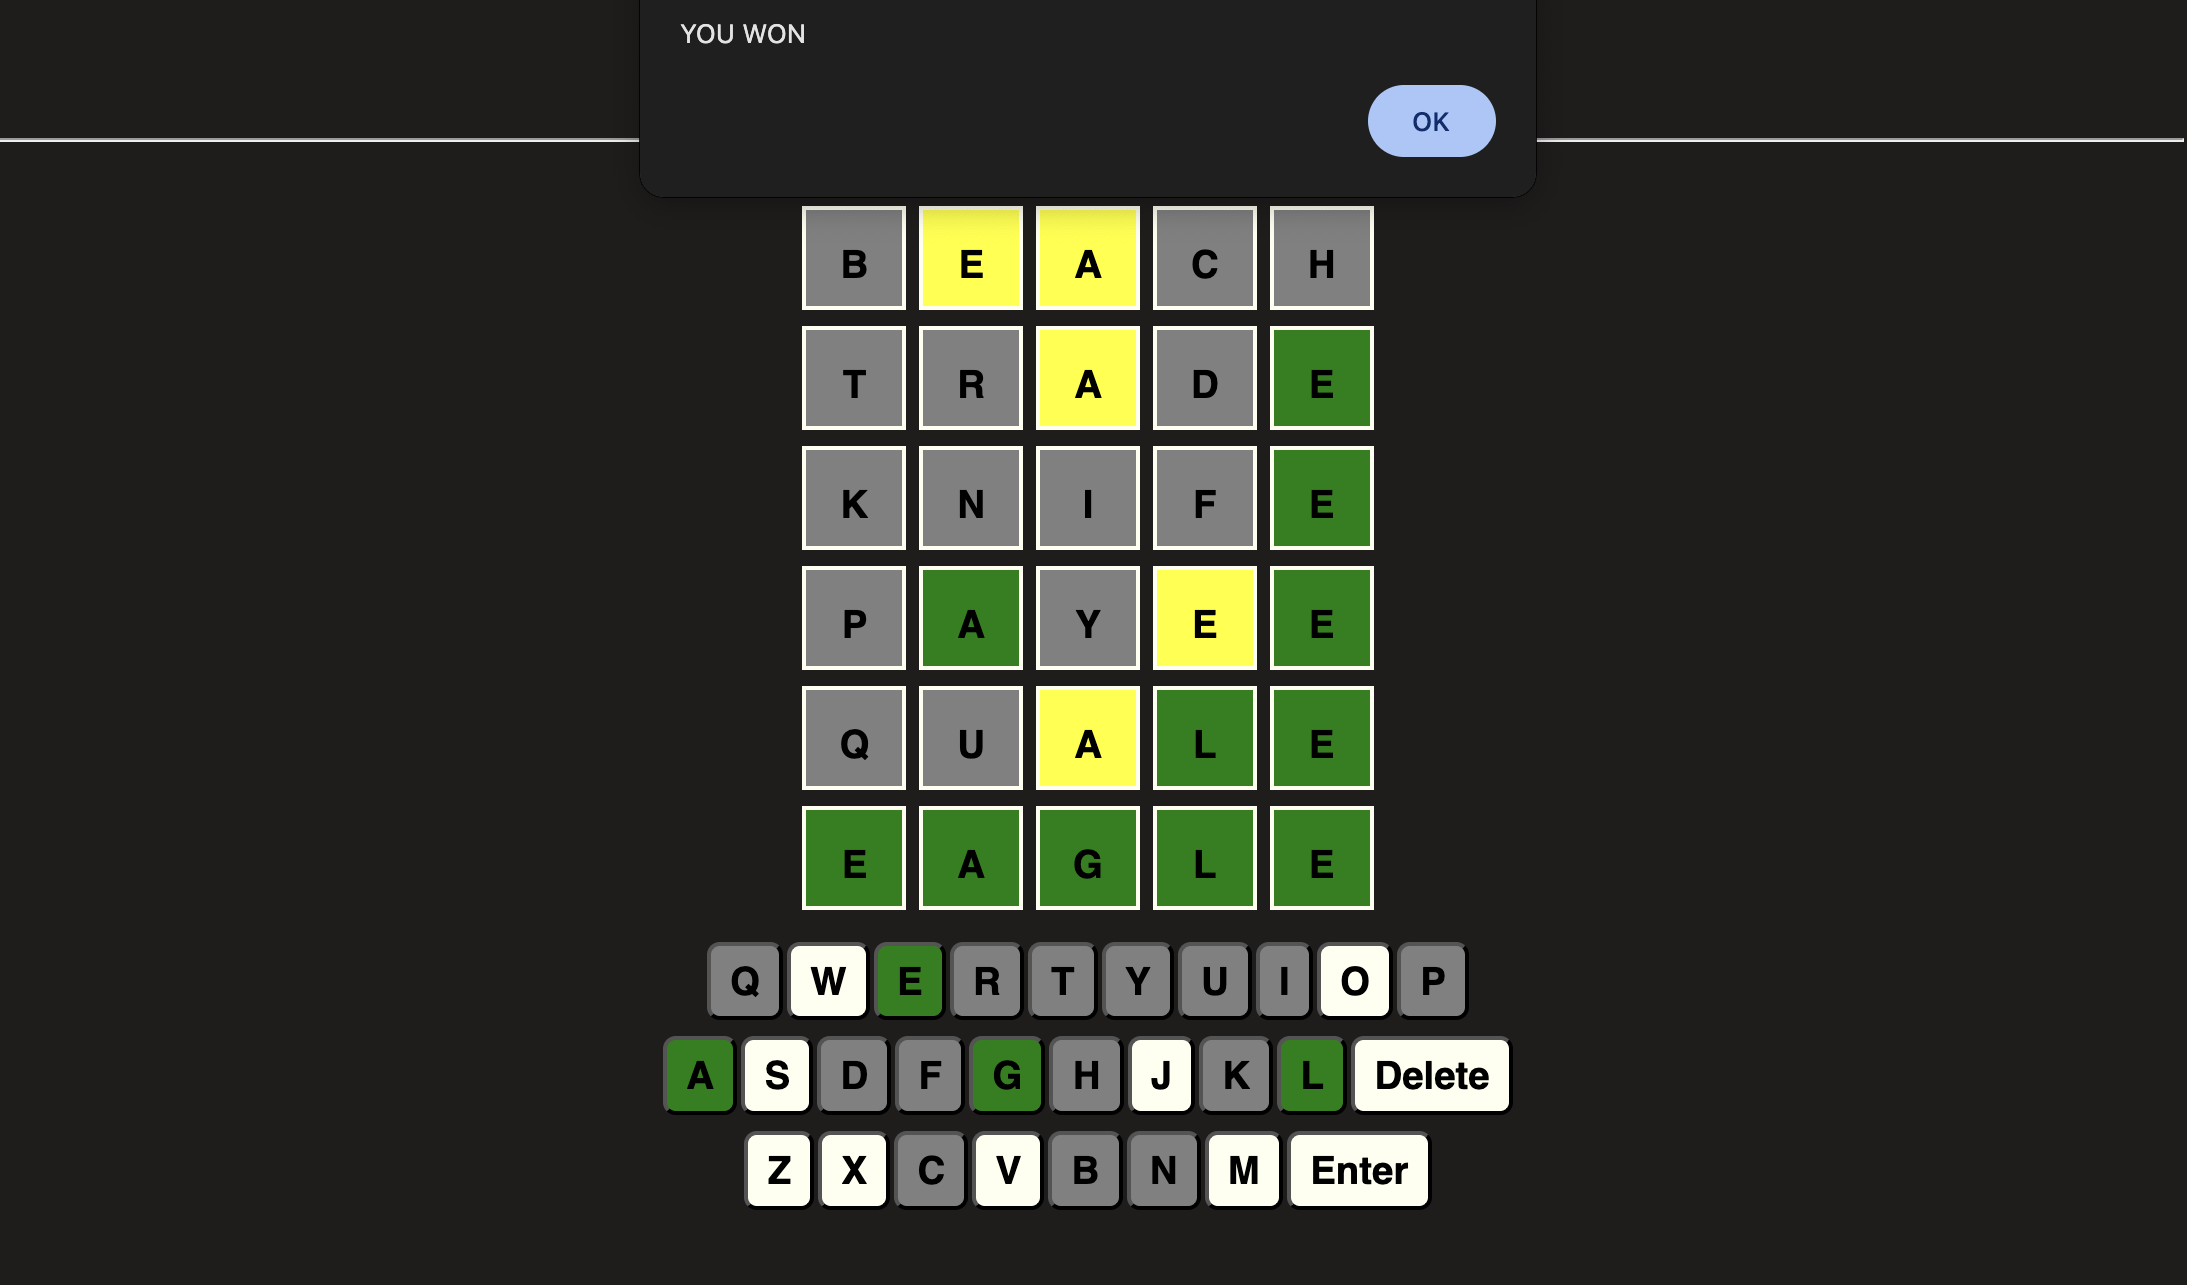
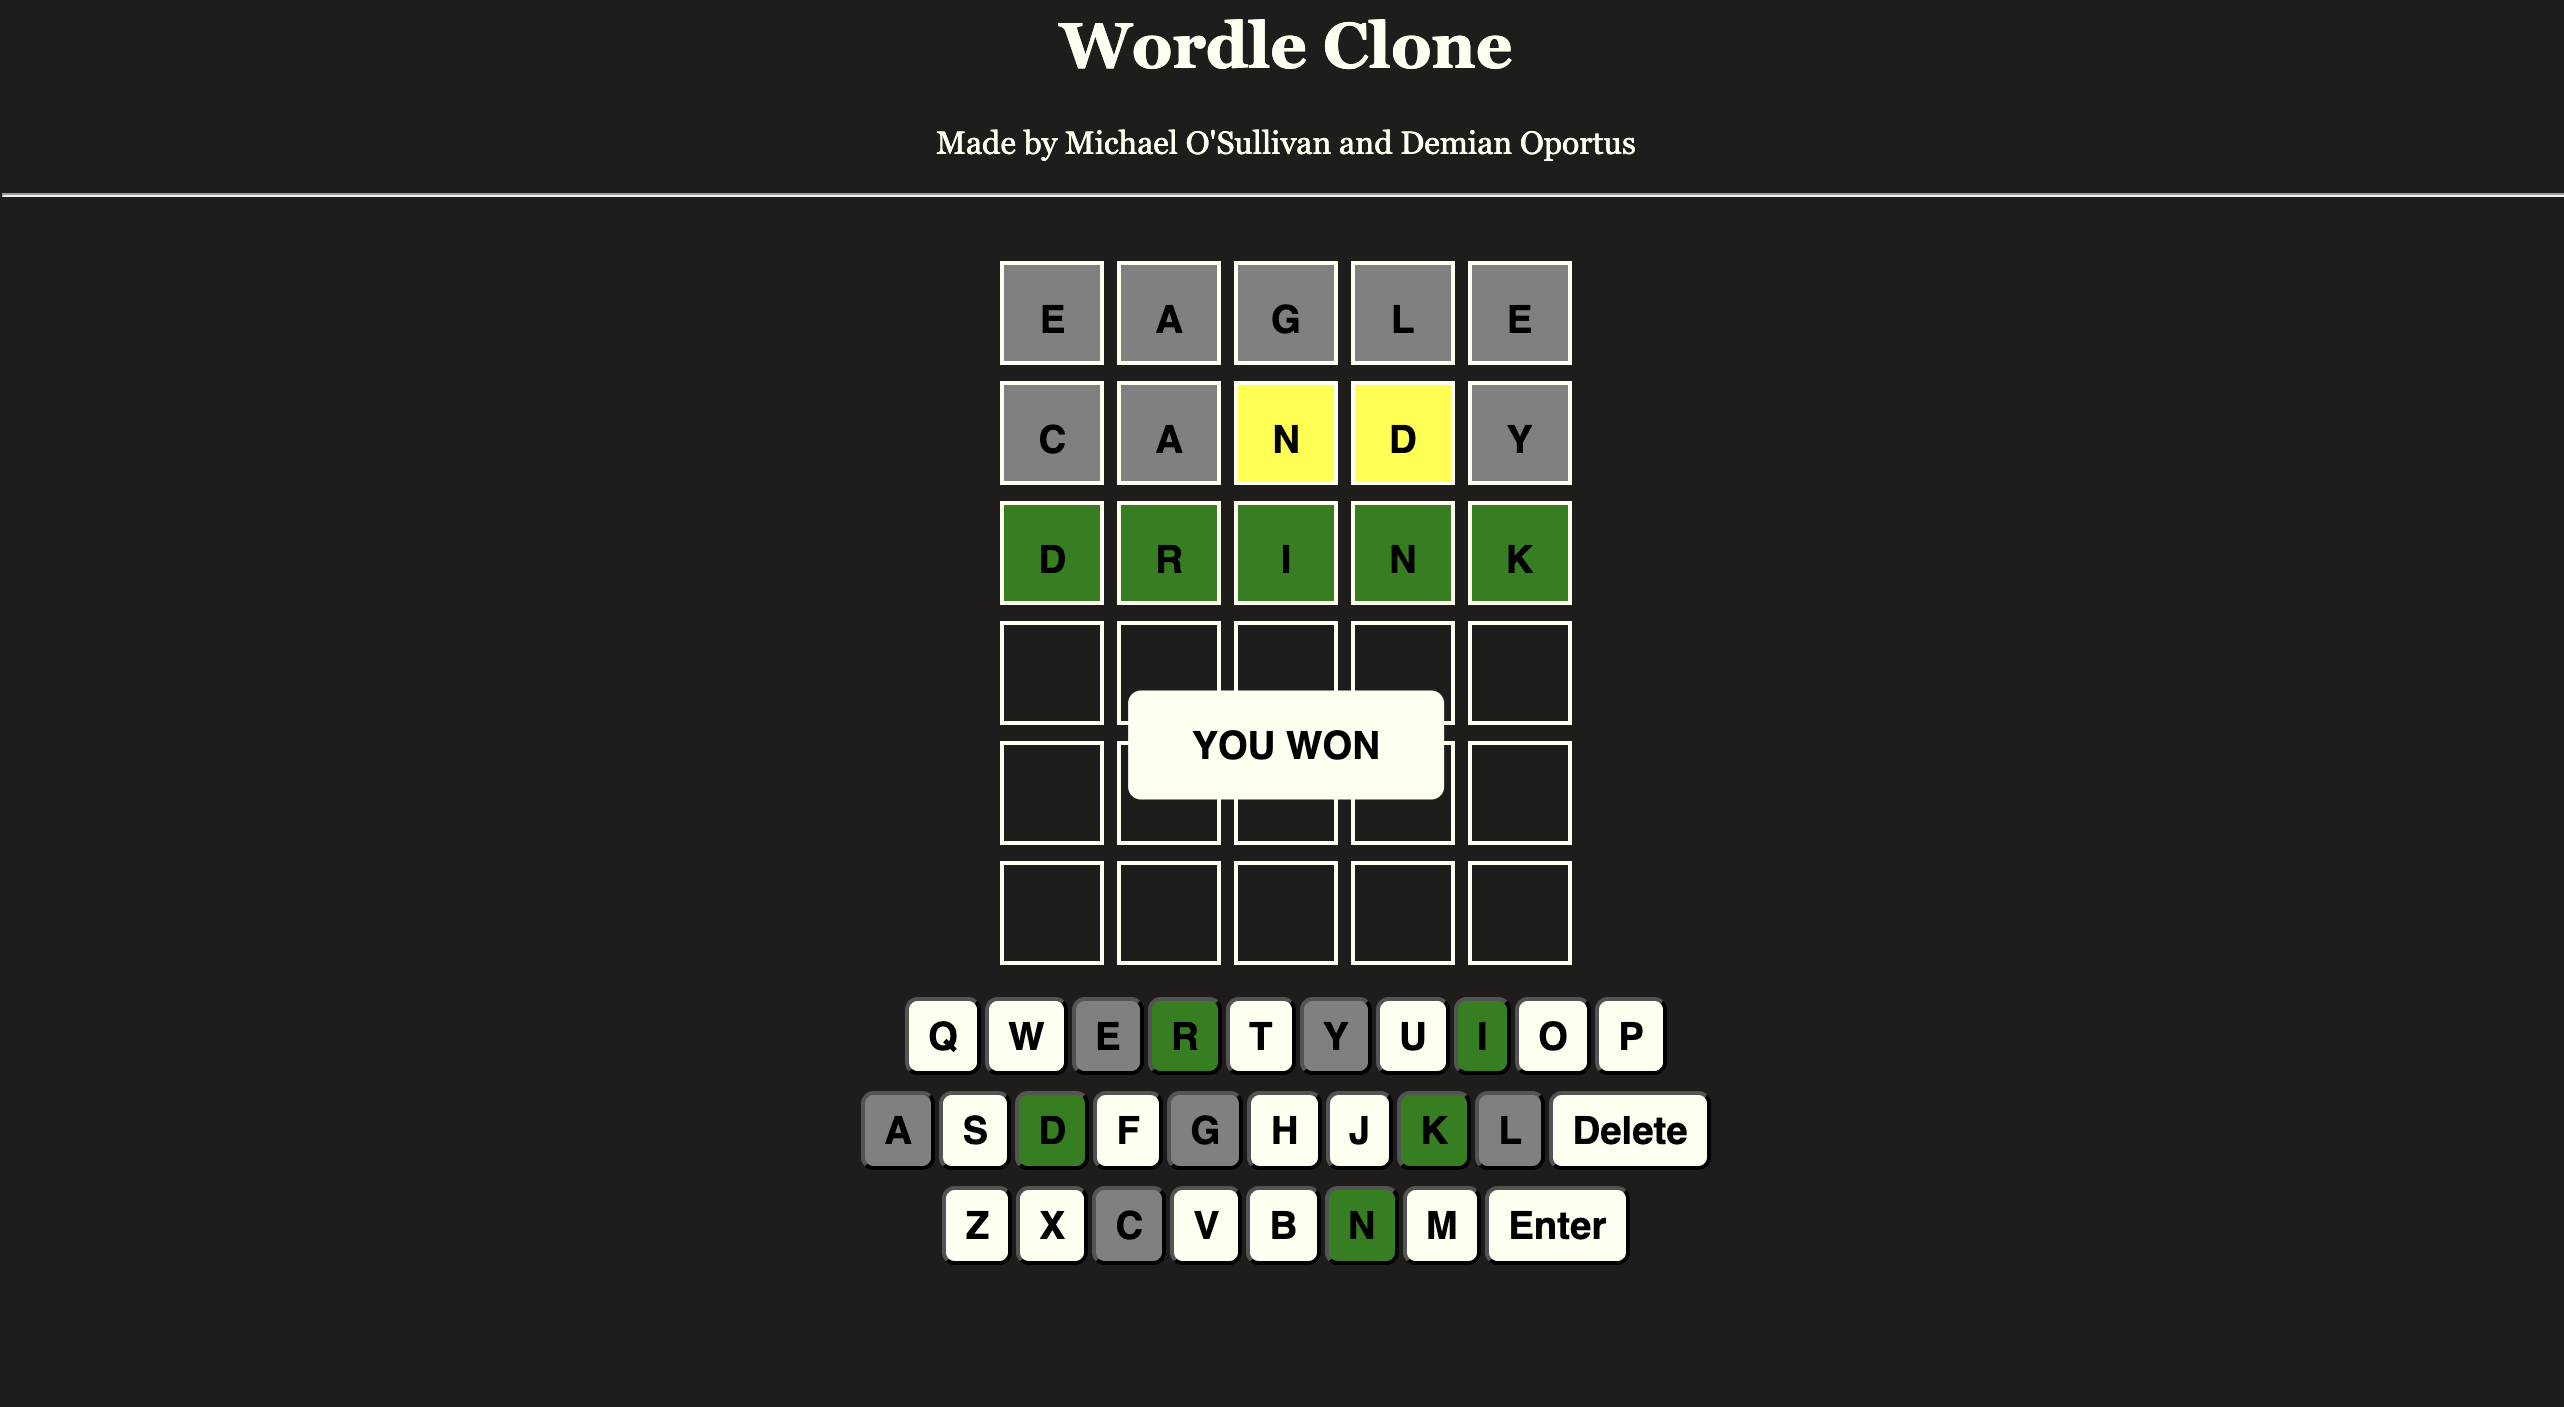
Add better UI for win/loss, fix bug for multiple enter key presses for one guess

Changed region(s): [[0.2798, 0.0623, 0.7151, 0.965], [0.4042, 0.0, 0.5908, 0.0623], [0.3109, 0.0, 0.3731, 0.0311]]

diff --git a/src/game.js b/src/game.js
@@ -18,13 +18,14 @@ const fiveLetterWords = [
     "dwell", "enact", "flesh", "grasp", "hound",
     "intro", "jumpy", "kudos", "lodge", "merit"
 ];
-  
+
 let currentWord = fiveLetterWords[Math.floor(Math.random() * fiveLetterWords.length)].toUpperCase();
 let currentGuess = []
 let numberOfGuessesLeft = 6;
 
+// Create the html elements for the game tiles
 function createLayout() {
-    const gameLayout = document.querySelector("#gameLayout");
+    const gameLayout = document.getElementById("gameLayout");
     gameLayout.innerHTML = "";
     // Create 6 rows
     for (let rowNumber = 0; rowNumber < 6; rowNumber++) {
@@ -43,8 +44,20 @@ function createLayout() {
     }
 }
 
+// Create an html element for a win/loss popup
+function createPopup(message) {
+    const popup = document.getElementById("popup");
+    popup.innerHTML = message;
+    // Fade the popup in and out
+    popup.classList.toggle("fade-in");
+    setTimeout(() => {
+        popup.classList.toggle("fade-in");
+    }, 2000);
+}
+
+// Read keyboard input from user
 function handleKeyPress(event) {
-    // Check if the pressed key is a letter
+    // Check if the pressed key is a letter with regex
     if (event.key.match(/^[a-zA-Z]$/)) {
         addLetter(event.key.toUpperCase());
     } else if (event.key === "Backspace") {
@@ -123,6 +136,9 @@ function submitWord() {
         }
     }
 
+    numberOfGuessesLeft--;
+    currentGuess = [];
+
     // Wait a bit for UI to update, then check for win/loss/continue
     setTimeout(() => {
         checkGameState(matchingLetters)
@@ -176,6 +192,7 @@ function checkWords() {
     return result;
 }
 
+// Update game state - win, loss, or just go to next turn
 function checkGameState(matchingLetters) {
     // Check for win
     let win = true;
@@ -185,21 +202,19 @@ function checkGameState(matchingLetters) {
         }
     }
     if(win) {
-        alert("YOU WON");
-        resetGame();
+        createPopup("YOU WON");
+        setTimeout(resetGame, 3000);
         return;
     }
-
-    numberOfGuessesLeft--;
-    currentGuess = [];
 
     // Check for loss
     if(numberOfGuessesLeft === 0){
-        alert("YOU LOST");
-        resetGame();
+        createPopup("YOU LOST<br>Correct Word: "+currentWord);
+        setTimeout(resetGame, 3000);
         return;
     }
 }
+
 
 function resetGame() {
     currentWord = fiveLetterWords[Math.floor(Math.random() * fiveLetterWords.length)].toUpperCase();

diff --git a/src/index.html b/src/index.html
@@ -1,7 +1,6 @@
 <!DOCTYPE html>
 <html lang="en">
 <head>
-    <!-- Metadata and stylesheet linking -->
     <meta charset="UTF-8">
     <meta http-equiv="X-UA-Compatible" content="IE=edge">
     <meta name="viewport" content="width=device-width, initial-scale=1.0">
@@ -9,14 +8,15 @@
     <title>Wordle</title>
 </head>
 <body>
-    <!-- Main heading of the page -->
     <h1> Wordle Clone </h1>
-    <!-- Authors of the project -->
     <p>Made by Michael O'Sullivan and Demian Oportus</p>
     <hr>
     
     <!-- Container for the game layout -->
     <div id="gameLayout"></div>
+
+    <!-- Popup for win / loss message -->
+    <div id="popup"></div>
 
     <!-- Virtual keyboard for the game -->
     <div id="keyboard">
@@ -60,11 +60,9 @@
     </div>
 
     <hr>
-    <!-- Note about the game's word validation -->
     <p>Note: We are relying on pure HTML/CSS/JS and no third-party resources, so guess words are not validated against a dictionary of real 5 letter words</p>
     <p>Example: AAAAA is a valid guess and will not raise an error</p>
 
-    <!-- Linking the JavaScript file for the game -->
     <script src="./game.js"></script>
 </body>
 </html>

diff --git a/src/styles.css b/src/styles.css
@@ -59,3 +59,23 @@ hr {
   transition: 0.6s;
   background-color: ivory;
 }
+
+#popup {
+  position: absolute;
+  top: 50%;
+  left: 50%;
+  transform: translate(-50%, -50%);
+  padding: 1rem 2rem;
+  border-radius: 0.4rem;
+  font-size: 1.2rem;
+  font-weight: bold;
+  font-family: sans-serif;
+  color: black;
+  transition: 1s;
+  opacity: 0;
+  background-color: ivory;
+}
+
+#popup.fade-in {
+  opacity: 1;
+}
